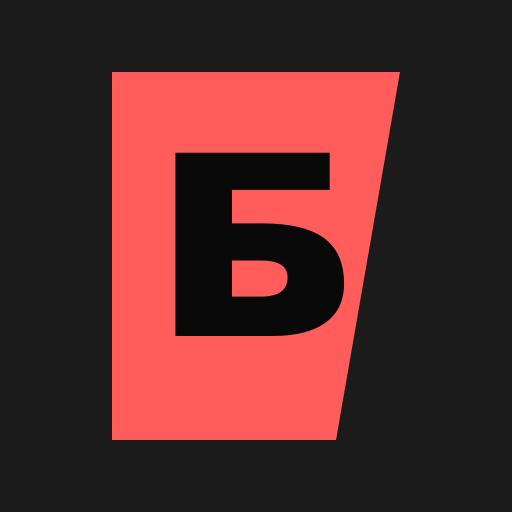
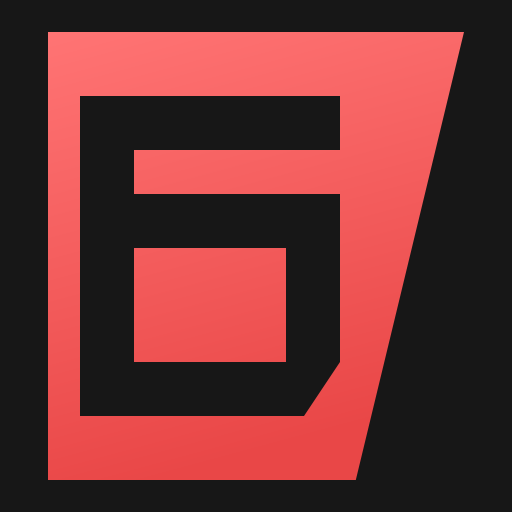
Новый фавикон: плита-силуэт со сквозным вырезом «Б»

diff --git a/nuxt.config.ts b/nuxt.config.ts
@@ -129,7 +129,18 @@ export default defineNuxtConfig({
             "Бункер — сеть вейпшопов: адреса магазинов, режим работы и справочный каталог ассортимента для лиц старше 18 лет.",
         },
       ],
-      link: [{ rel: "icon", type: "image/png", href: "/brand/favicon.png" }],
+      // Единый фавикон для всех страниц: SVG-мастер (Chrome/Firefox/
+      // Edge), PNG 32 для Safari и apple-touch-icon для iOS/закладок.
+      // Набор регенерируется: node design-kit/tools/generate-favicon.mjs
+      link: [
+        { rel: "icon", type: "image/svg+xml", href: "/brand/favicon.svg" },
+        { rel: "icon", type: "image/png", sizes: "32x32", href: "/brand/favicon-32.png" },
+        {
+          rel: "apple-touch-icon",
+          sizes: "180x180",
+          href: "/brand/apple-touch-icon.png",
+        },
+      ],
     },
   },
 });
